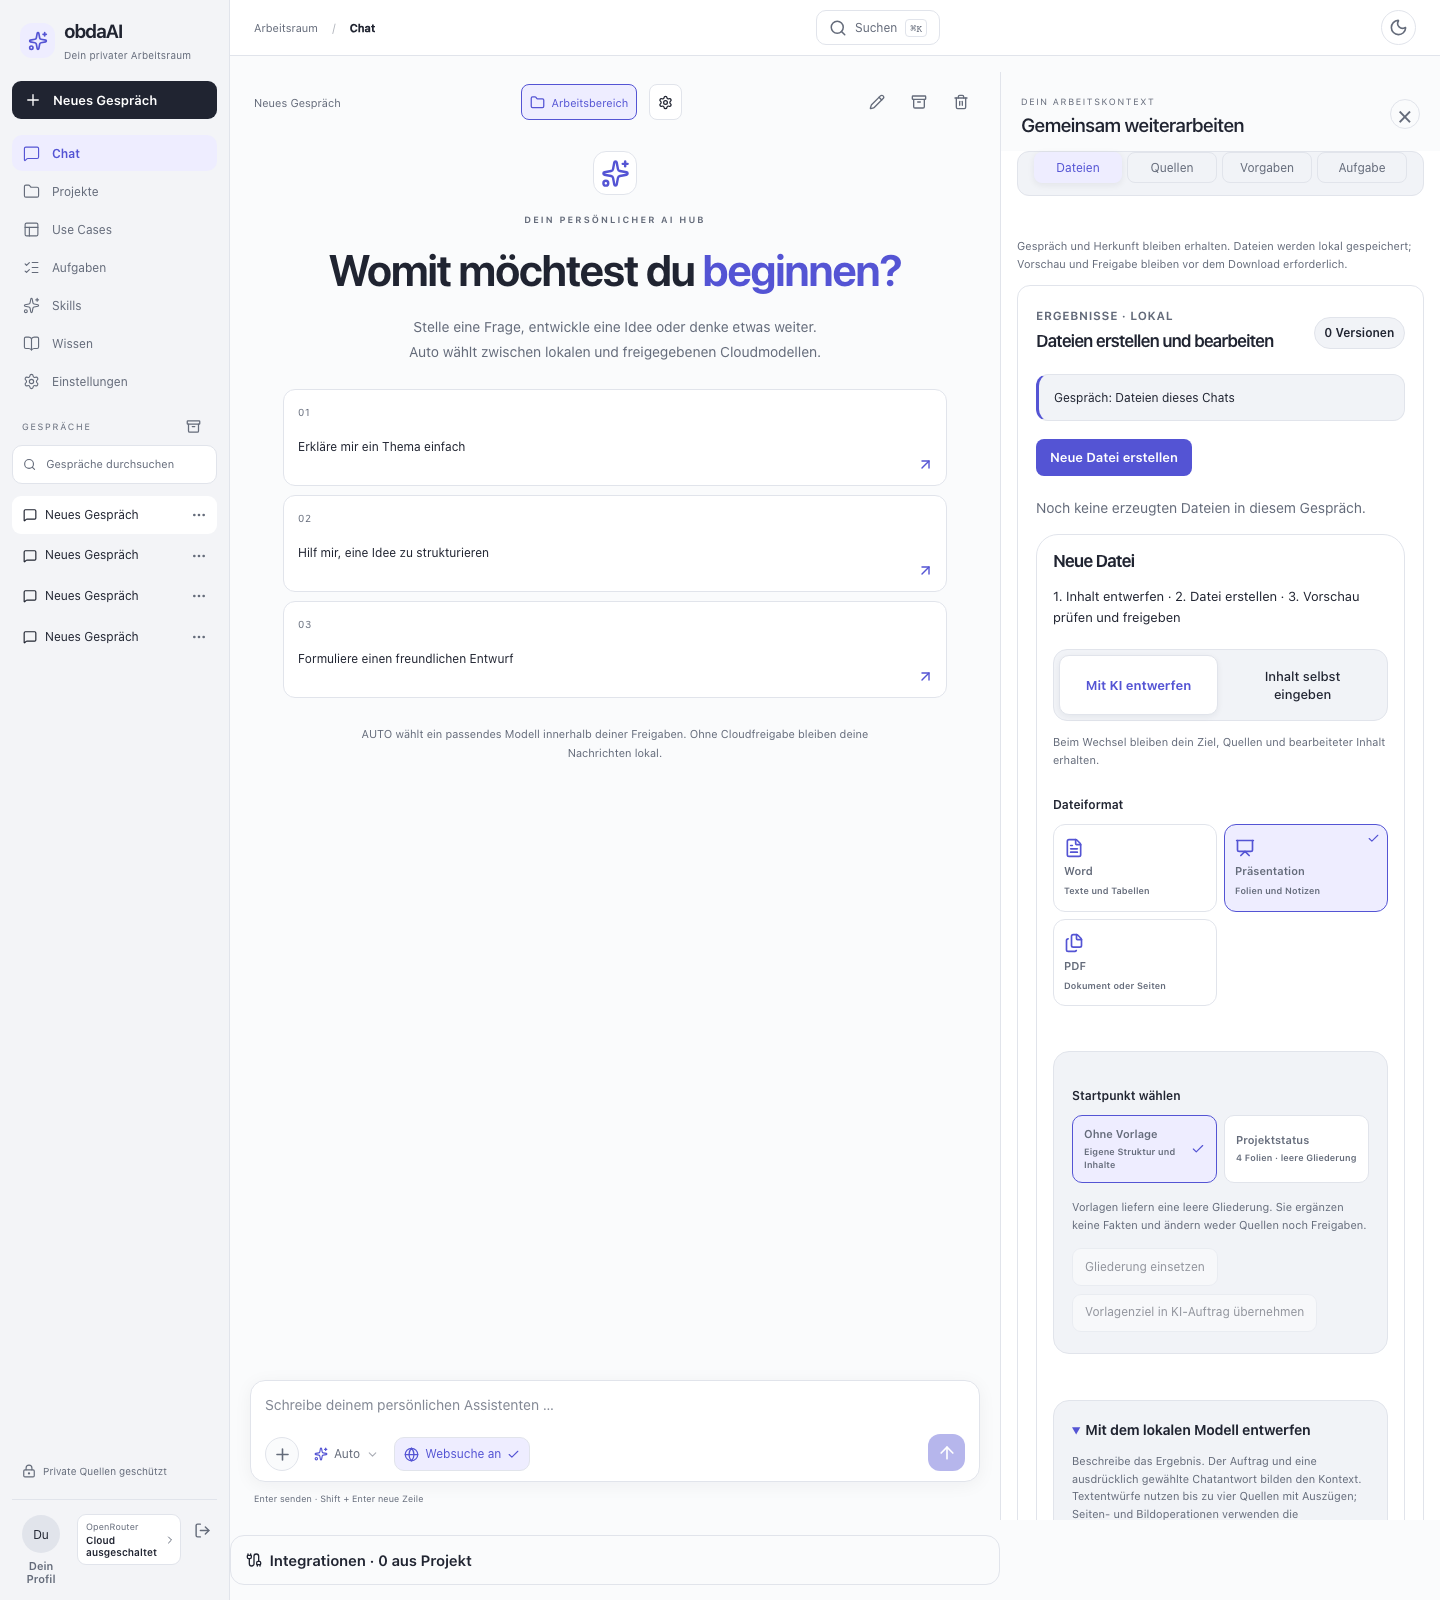
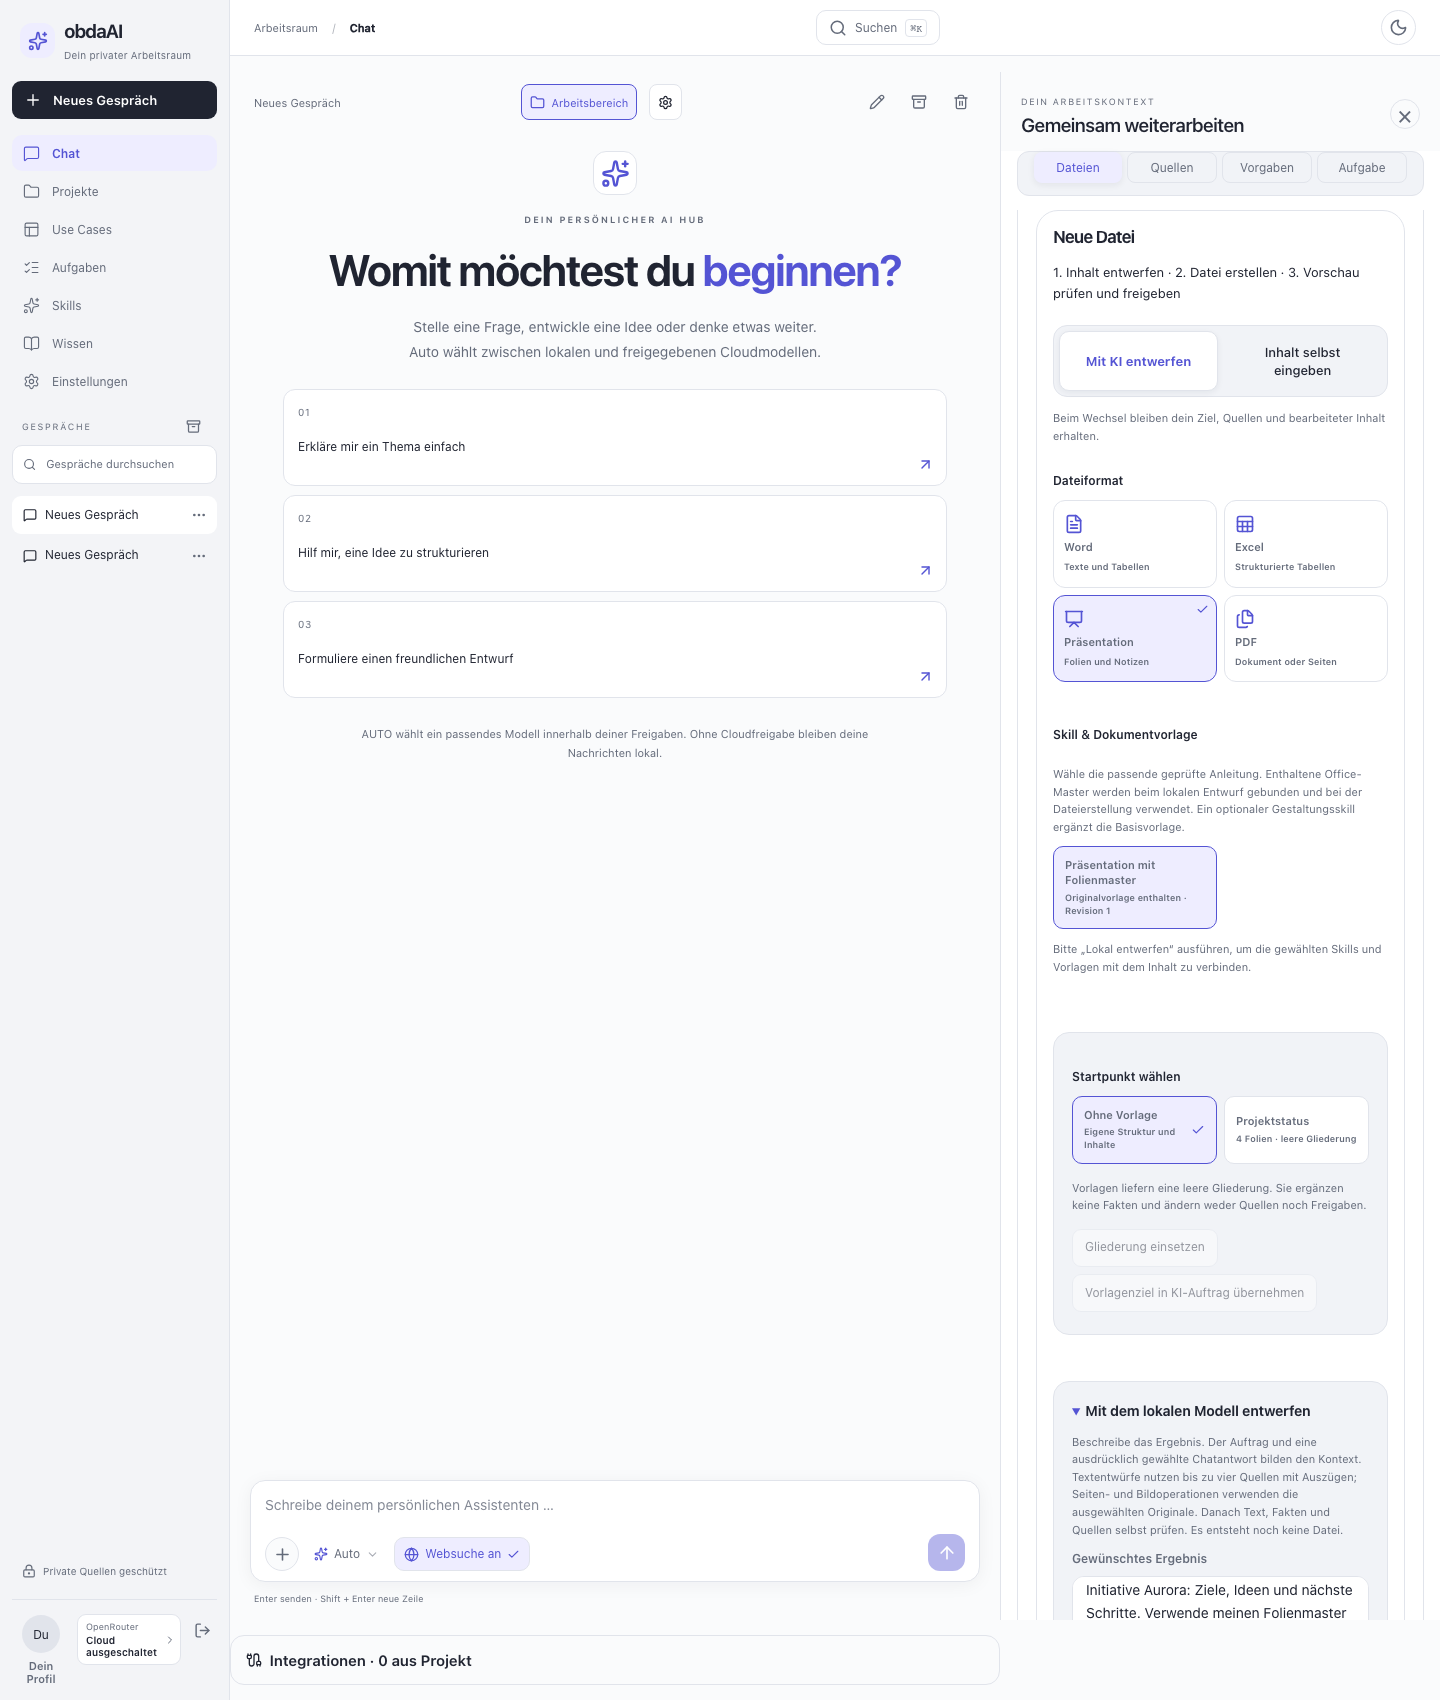
Support mixed Markdown and package skills in file creation

diff --git a/frontend/src/ArtifactsPanel.tsx b/frontend/src/ArtifactsPanel.tsx
@@ -248,7 +248,7 @@ export function ArtifactsPanel({api, project, conversation, sources, seed, embed
       {resumeNeedsReview&&<div className="artifact-context"><p>Vor dem Erstellen musst du mit aktuell ausgewählten Quellen neu entwerfen oder den erhaltenen Text ausdrücklich als manuelle Kopie verwenden.</p><button type="button" disabled={busy} onClick={()=>{setOriginal(null);setChatSource(null);setResumeNeedsReview(false);setMode('manual');setContentOpen(true)}}>Als manuelle Kopie ohne frühere Herkunft verwenden</button></div>}
       <form onSubmit={save}>
         <fieldset className="artifact-choice-field" disabled={busy}><legend>Dateiformat</legend><div className="artifact-format-options" role="radiogroup" aria-label="Dateiformat">{fileFormats.filter(option=>project||option.id!=='image').map(option=><label key={option.id} className={'artifact-format-card'+(kind===option.id?' is-selected':'')}><input type="radio" name={'artifact-format-'+scopeId} aria-label={option.label} value={option.id} checked={kind===option.id} onChange={()=>{setKind(option.id);setSkillIds([]);setSkillsChanged(false);setBoundTemplate(null);setLetter(null);setSheets([]);setTemplateId('');setPendingTemplate(null);setTemplateNotice('');setDraftToken(null);setDraftInfo(null);setError('')}}/><option.icon size={20}/><strong>{option.short}</strong><small>{option.description}</small>{kind===option.id&&<Check className="artifact-choice-check" size={13}/>}</label>)}</div></fieldset>
-        {['docx','pptx','xlsx'].includes(kind)&&<fieldset className="artifact-choice-field artifact-file-skills" disabled={busy}><legend>Skill & Dokumentvorlage</legend><p className="hint">Wähle die passende geprüfte Anleitung. Enthaltene Office-Master werden beim lokalen Entwurf gebunden und bei der Dateierstellung verwendet. Ein optionaler Gestaltungsskill ergänzt die Basisvorlage.</p><div className="artifact-template-options">{fileSkills.filter(s=>!s.bundle_manifest?.templates.length||s.bundle_manifest.templates.some(f=>kind==='docx'?/\.(docx|dotx)$/i.test(f.path):kind==='pptx'?/\.(pptx|potx)$/i.test(f.path):/\.(xlsx|xltx)$/i.test(f.path))).map(s=><label key={s.id} className={'artifact-template-card'+(skillIds.includes(s.id)?' is-selected':'')}><input type="checkbox" aria-label={'Datei-Skill '+s.name} checked={skillIds.includes(s.id)} disabled={busy||(!skillIds.includes(s.id)&&skillIds.length>=3)} onChange={e=>{setSkillsChanged(true);setSkillIds(e.target.checked?[...skillIds,s.id]:skillIds.filter(id=>id!==s.id));setDraftToken(null);setDraftInfo(null);if(!original)setBoundTemplate(null)}}/><span><strong>{s.name}</strong><small>{s.bundle_manifest?.templates.length?'Originalvorlage enthalten':s.bundle_manifest?.dependencies.length?'Optionale Gestaltung · Basis erforderlich':'Anleitung'} · Revision {s.revision}</small></span></label>)}</div>{!fileSkills.length&&<p className="hint">Noch keine aktiven Skills. Importiere und aktiviere einen Skill in deiner Bibliothek.</p>}{skillIds.length>0&&!draftToken&&!original&&<p className="hint">Bitte „Lokal entwerfen“ ausführen, um die gewählten Skills und Vorlagen mit dem Inhalt zu verbinden.</p>}{boundTemplate&&<p className="artifact-context">Gebundene Originalvorlage: {boundTemplate.asset_path} · {boundTemplate.style==='modern'?'moderne Gestaltung':'Basisgestaltung'} · Skillrevision {boundTemplate.revision}</p>}</fieldset>}
+        {['docx','pptx','xlsx'].includes(kind)&&<fieldset className="artifact-choice-field artifact-file-skills" disabled={busy}><legend>Skill & Dokumentvorlage</legend><p className="hint">Wähle die passende geprüfte Anleitung. Enthaltene Office-Master werden beim lokalen Entwurf gebunden und bei der Dateierstellung verwendet. Ein optionaler Gestaltungsskill ergänzt die Basisvorlage.</p><div className="artifact-template-options">{fileSkills.filter(s=>!s.bundle_manifest?.templates?.length||s.bundle_manifest.templates?.some(f=>kind==='docx'?/\.(docx|dotx)$/i.test(f.path):kind==='pptx'?/\.(pptx|potx)$/i.test(f.path):/\.(xlsx|xltx)$/i.test(f.path))).map(s=><label key={s.id} className={'artifact-template-card'+(skillIds.includes(s.id)?' is-selected':'')}><input type="checkbox" aria-label={'Datei-Skill '+s.name} checked={skillIds.includes(s.id)} disabled={busy||(!skillIds.includes(s.id)&&skillIds.length>=3)} onChange={e=>{setSkillsChanged(true);setSkillIds(e.target.checked?[...skillIds,s.id]:skillIds.filter(id=>id!==s.id));setDraftToken(null);setDraftInfo(null);if(!original)setBoundTemplate(null)}}/><span><strong>{s.name}</strong><small>{s.bundle_manifest?.templates?.length?'Originalvorlage enthalten':s.bundle_manifest?.dependencies?.length?'Optionale Gestaltung · Basis erforderlich':'Anleitung'} · Revision {s.revision}</small></span></label>)}</div>{!fileSkills.length&&<p className="hint">Noch keine aktiven Skills. Importiere und aktiviere einen Skill in deiner Bibliothek.</p>}{skillIds.length>0&&!draftToken&&!original&&<p className="hint">Bitte „Lokal entwerfen“ ausführen, um die gewählten Skills und Vorlagen mit dem Inhalt zu verbinden.</p>}{boundTemplate&&<p className="artifact-context">Gebundene Originalvorlage: {boundTemplate.asset_path} · {boundTemplate.style==='modern'?'moderne Gestaltung':'Basisgestaltung'} · Skillrevision {boundTemplate.revision}</p>}</fieldset>}
         {(kind==='docx'||kind==='pptx')&&<div className="artifact-template">
           <fieldset className="artifact-choice-field" disabled={busy}><legend>Startpunkt wählen</legend><div className="artifact-template-options" role="radiogroup" aria-label="Vorlage"><label className={'artifact-template-card'+(!templateId?' is-selected':'')}><input type="radio" name={'artifact-template-'+scopeId} aria-label="Ohne Vorlage" value="" checked={!templateId} onChange={()=>{setTemplateId('');setPendingTemplate(null);setTemplateNotice('')}}/><span><strong>Ohne Vorlage</strong><small>Eigene Struktur und Inhalte</small></span>{!templateId&&<Check size={14}/>}</label>{fileTemplates.filter(t=>t.kind===kind).map(template=><label key={template.id} className={'artifact-template-card'+(templateId===template.id?' is-selected':'')}><input type="radio" name={'artifact-template-'+scopeId} aria-label={template.name} value={template.id} checked={templateId===template.id} onChange={()=>{setTemplateId(template.id);setPendingTemplate(null);setTemplateNotice('')}}/><span><strong>{template.name}</strong><small>{template.headings.length} {kind==='pptx'?'Folien':'Abschnitte'} · leere Gliederung</small></span>{templateId===template.id&&<Check size={14}/>}</label>)}</div></fieldset>
           <p className="hint">Vorlagen liefern eine leere Gliederung. Sie ergänzen keine Fakten und ändern weder Quellen noch Freigaben.</p>

diff --git a/frontend/src/SkillsPanel.tsx b/frontend/src/SkillsPanel.tsx
@@ -47,7 +47,7 @@ export function SkillsPanel({api,csrf=''}:{api:API;csrf?:string}){
  {error&&<p className="error" role="alert">{error}</p>}{notice&&<p className="hint" role="status">{notice}</p>}
  <div className="skills-toolbar"><label className="skill-search"><Search size={17}/><input aria-label="Skills durchsuchen" placeholder="Skills durchsuchen …" value={search} onChange={e=>setSearch(e.target.value)}/></label><button className="primary" disabled={busy} onClick={()=>choose(null)}><Plus size={16}/> Skill erstellen</button><button disabled={busy} onClick={()=>file.current?.click()}><Upload size={16}/> SKILL.md importieren</button><button disabled={busy} onClick={()=>packageFile.current?.click()}><Upload size={16}/> Skill-Paket importieren</button><input ref={packageFile} type="file" accept=".zip,.skill,application/zip" aria-label="Skill-Paket auswählen" hidden disabled={busy} onChange={e=>{const f=e.target.files?.[0];if(f)void importPackage(f);e.target.value=''}}/><input ref={file} type="file" accept=".md,.markdown,text/markdown" aria-label="Skill-Datei importieren" hidden disabled={busy} onChange={e=>{const f=e.target.files?.[0];if(f)void importFile(f);e.target.value=''}}/></div>
  <div className="skill-filters" role="group" aria-label="Skills filtern">{[['all','Alle'],['active','Aktiv'],['always','Immer'],['mention','Bei Erwähnung'],['auto','Nach Stichwort']].map(([key,label])=><button key={key} aria-pressed={filter===key} onClick={()=>setFilter(key)}>{label}</button>)}</div>
- <div className="skill-grid">{visible.map(s=><article className="skill-card" key={s.id}><div className="skill-card-heading"><span className="skill-icon"><FileText size={19}/></span><span className={'skill-badge '+(s.enabled&&s.trusted?'active':'')}>{s.enabled&&s.trusted?'Aktiv':'Entwurf / inaktiv'}</span></div><h3>{s.name}</h3><p>{s.description||'Eigene Anleitung für passende Antworten.'}</p><div className="skill-tags"><span>{usageNames[s.usage||'auto']}</span><span>{s.cloud_allowed?'Lokal & Cloud':'Nur lokal'}</span>{s.bundle_sha256&&<span>Paket · {s.bundle_manifest?.templates.length||0} Vorlagen</span>}<span>{s.project_id?projects.find(p=>p.id===s.project_id)?.name||'Projekt':'Alle Gespräche'}</span></div><code>{s.invocation}</code><small>Revision {s.revision} · {s.sha256.slice(0,10)}</small><div className="skill-card-actions"><button disabled={busy} onClick={()=>choose(s)}>Bearbeiten</button>{s.enabled&&s.trusted?<button disabled={busy} onClick={()=>void perform(async()=>{await api('/skills/'+s.id+'/trust','POST',{expected_revision:s.revision,sha256:s.sha256,enabled:false});setNotice('Skill deaktiviert.')})}>Deaktivieren</button>:<button disabled={busy} onClick={()=>choose(s)}>Prüfen & aktivieren</button>}<button aria-label={'Skill '+s.name+' exportieren'} title="SKILL.md exportieren" onClick={()=>exportSkill(s)}><Download size={16}/></button><button aria-label={'Skill '+s.name+' entfernen'} title="Aus Bibliothek entfernen" disabled={busy} onClick={()=>{opener.current=document.activeElement as HTMLElement;setRemove(s)}}><Archive size={16}/></button></div></article>)}</div>
+ <div className="skill-grid">{visible.map(s=><article className="skill-card" key={s.id}><div className="skill-card-heading"><span className="skill-icon"><FileText size={19}/></span><span className={'skill-badge '+(s.enabled&&s.trusted?'active':'')}>{s.enabled&&s.trusted?'Aktiv':'Entwurf / inaktiv'}</span></div><h3>{s.name}</h3><p>{s.description||'Eigene Anleitung für passende Antworten.'}</p><div className="skill-tags"><span>{usageNames[s.usage||'auto']}</span><span>{s.cloud_allowed?'Lokal & Cloud':'Nur lokal'}</span>{s.bundle_sha256&&<span>Paket · {s.bundle_manifest?.templates?.length||0} Vorlagen</span>}<span>{s.project_id?projects.find(p=>p.id===s.project_id)?.name||'Projekt':'Alle Gespräche'}</span></div><code>{s.invocation}</code><small>Revision {s.revision} · {s.sha256.slice(0,10)}</small><div className="skill-card-actions"><button disabled={busy} onClick={()=>choose(s)}>Bearbeiten</button>{s.enabled&&s.trusted?<button disabled={busy} onClick={()=>void perform(async()=>{await api('/skills/'+s.id+'/trust','POST',{expected_revision:s.revision,sha256:s.sha256,enabled:false});setNotice('Skill deaktiviert.')})}>Deaktivieren</button>:<button disabled={busy} onClick={()=>choose(s)}>Prüfen & aktivieren</button>}<button aria-label={'Skill '+s.name+' exportieren'} title="SKILL.md exportieren" onClick={()=>exportSkill(s)}><Download size={16}/></button><button aria-label={'Skill '+s.name+' entfernen'} title="Aus Bibliothek entfernen" disabled={busy} onClick={()=>{opener.current=document.activeElement as HTMLElement;setRemove(s)}}><Archive size={16}/></button></div></article>)}</div>
  {!visible.length&&<div className="skill-empty"><Sparkles size={28}/><h3>{skills.length?'Keine passenden Skills':'Dein Assistent, dein Arbeitsstil'}</h3><p>{skills.length?'Passe Suche oder Filter an.':'Beginne mit einer Vorlage oder importiere eine Markdown-Anleitung beziehungsweise ein Skill-Paket.'}</p></div>}
  <section className="skill-templates"><h3>Schnell starten</h3><div>{templates.map(t=><button key={t.name} disabled={busy} onClick={()=>choose(null,t)}><Plus size={17}/><span><b>{t.name}</b><small>{t.description}</small></span></button>)}</div></section>
  {editor&&<div className="modal"><div ref={dialog} className="skill-editor setting-card" role="dialog" aria-modal="true" aria-label="Skill bearbeiten" onKeyDown={trap}><div className="skill-editor-header"><div><p className="eyebrow">{selected?'REVISION '+selected.revision:'NEUER SKILL'}</p><h2>{selected?.name||'Deine Anleitung'}</h2></div><button aria-label="Skill-Editor schließen" disabled={busy} onClick={close}><X size={19}/></button></div>{error&&<p className="error" role="alert">{error}</p>}{discardConfirm&&<div ref={discardGroup} className="setting-card" role="group" aria-label="Skillentwurf verwerfen"><h3>Ungespeicherte Änderungen</h3><p>Deine Änderungen an Anleitung, Verwendung oder Skill-Datei sind noch nicht gespeichert.</p><button disabled={busy} onClick={resumeDraft}>Weiter bearbeiten</button><button disabled={busy} onClick={dismiss}>Entwurf verwerfen</button></div>}<label>Name<input maxLength={100} value={form.name} disabled={busy} onChange={e=>change('name',e.target.value)}/></label><label>Kurzbeschreibung<input maxLength={2000} value={form.description} disabled={busy} placeholder="Was hilft dieser Skill dir zu erledigen?" onChange={e=>change('description',e.target.value)}/></label>
